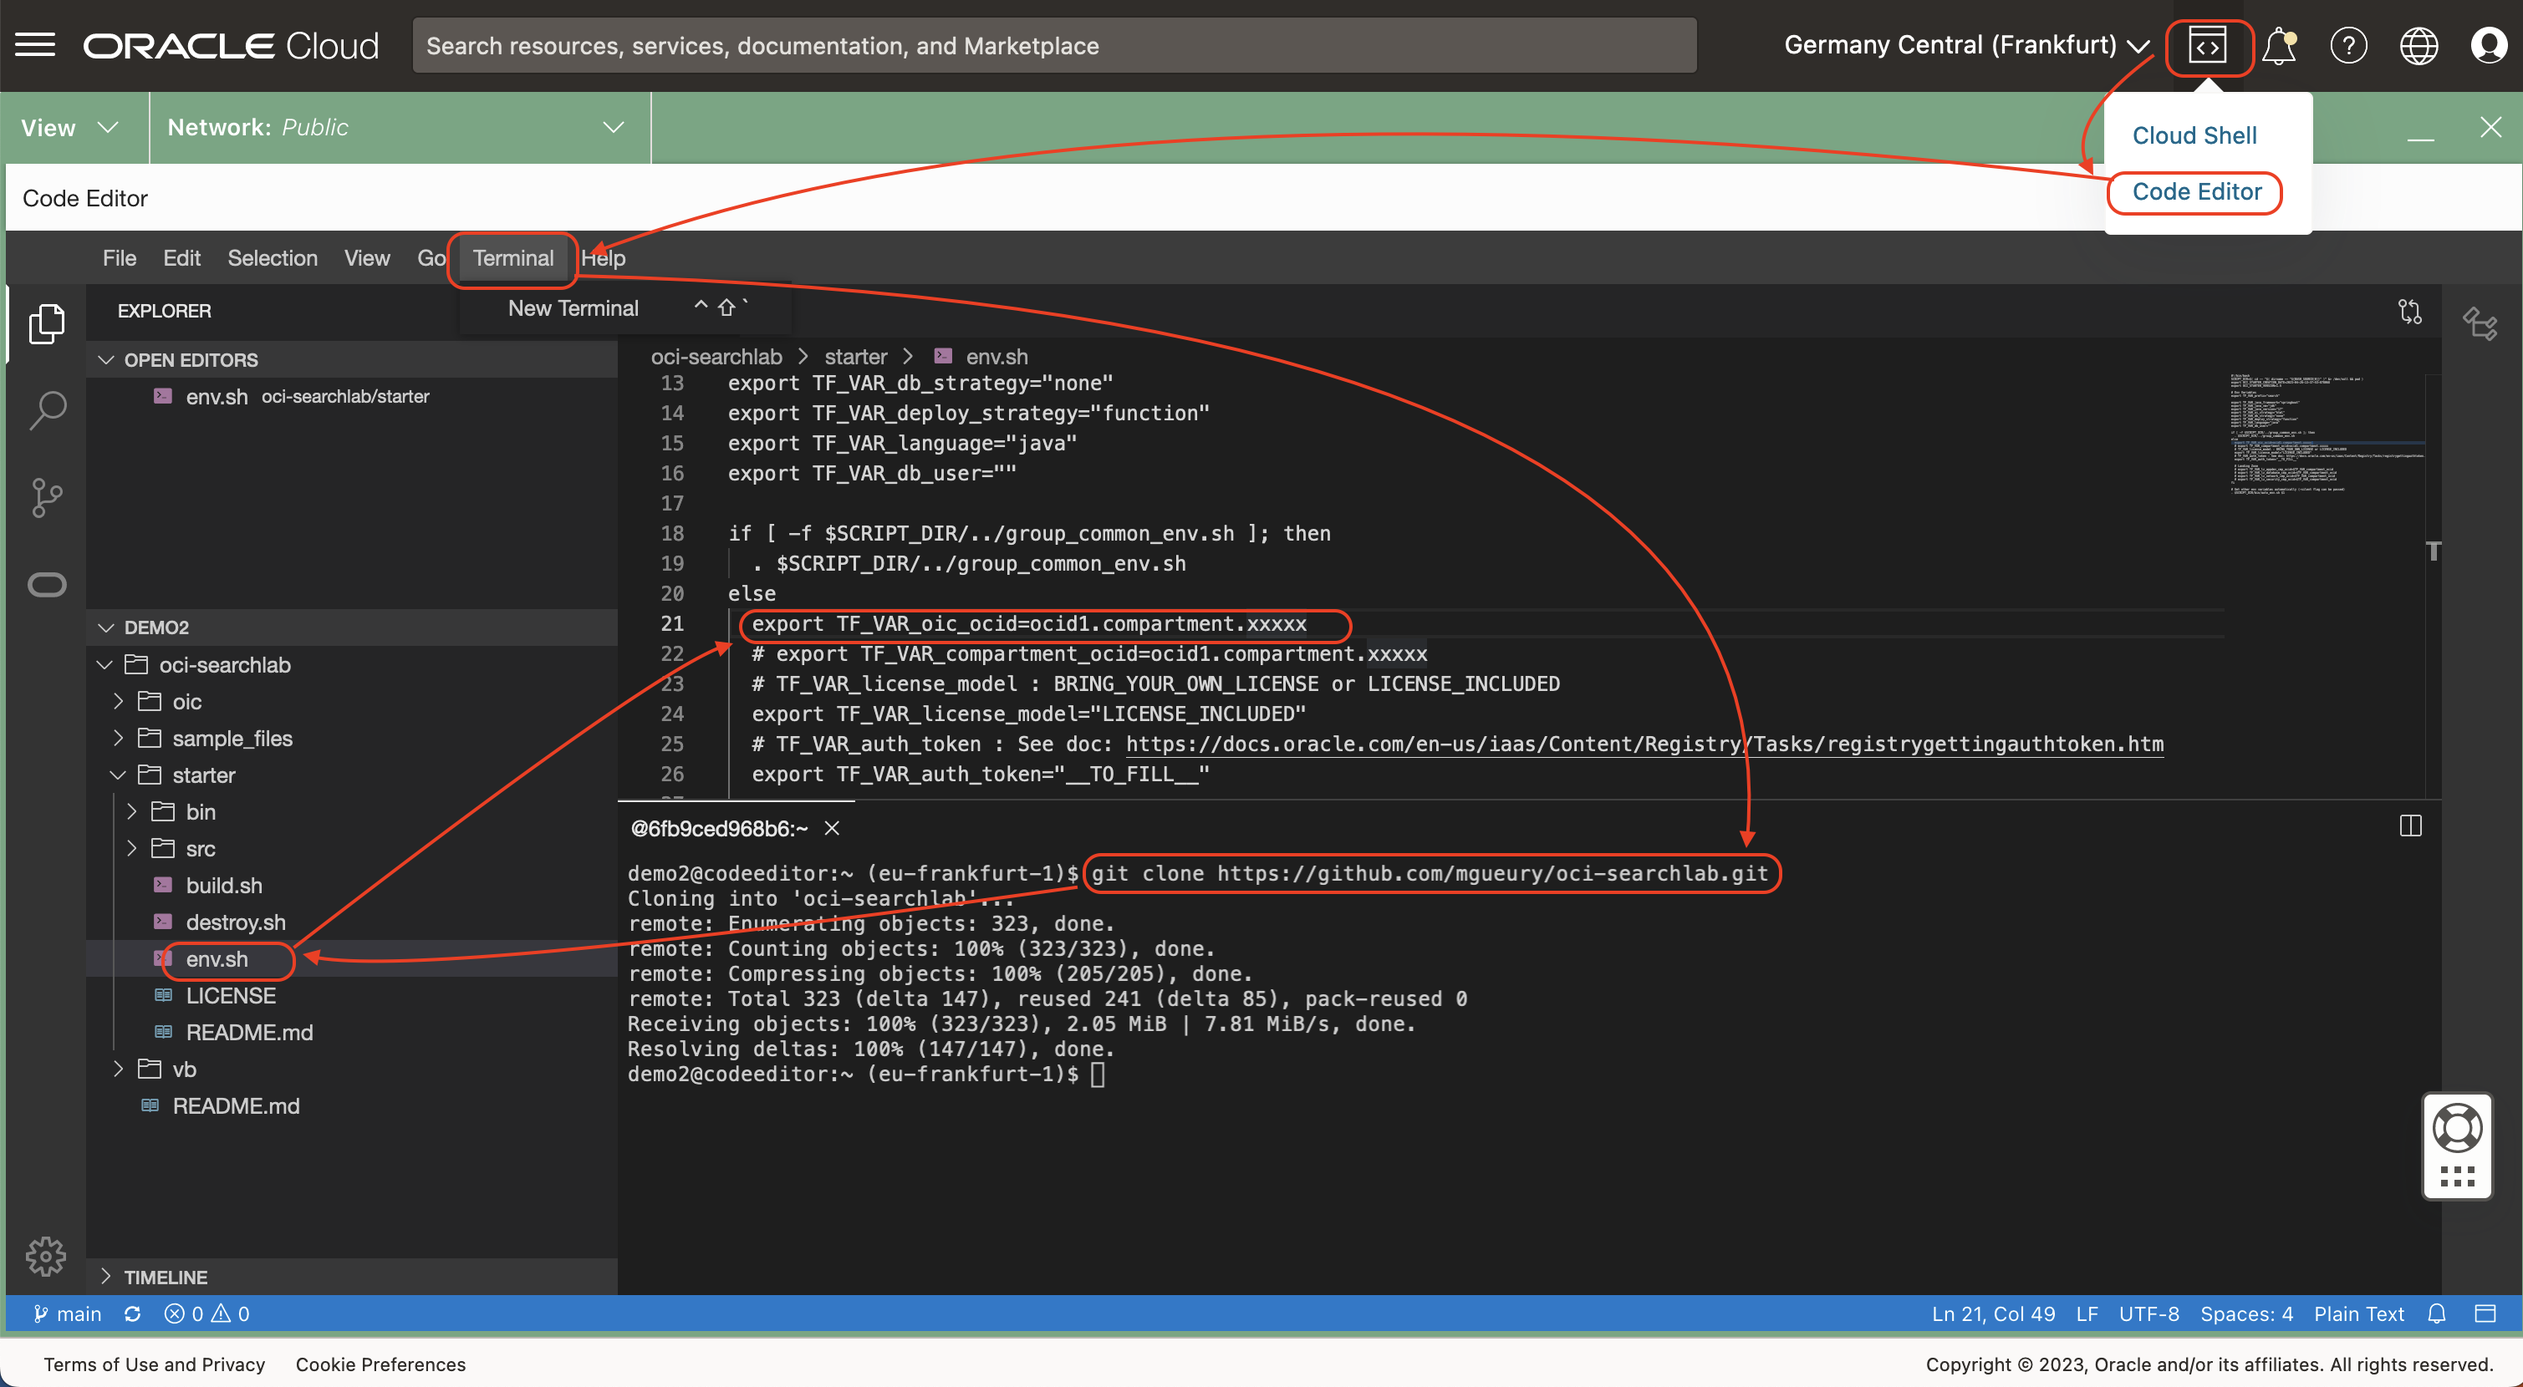
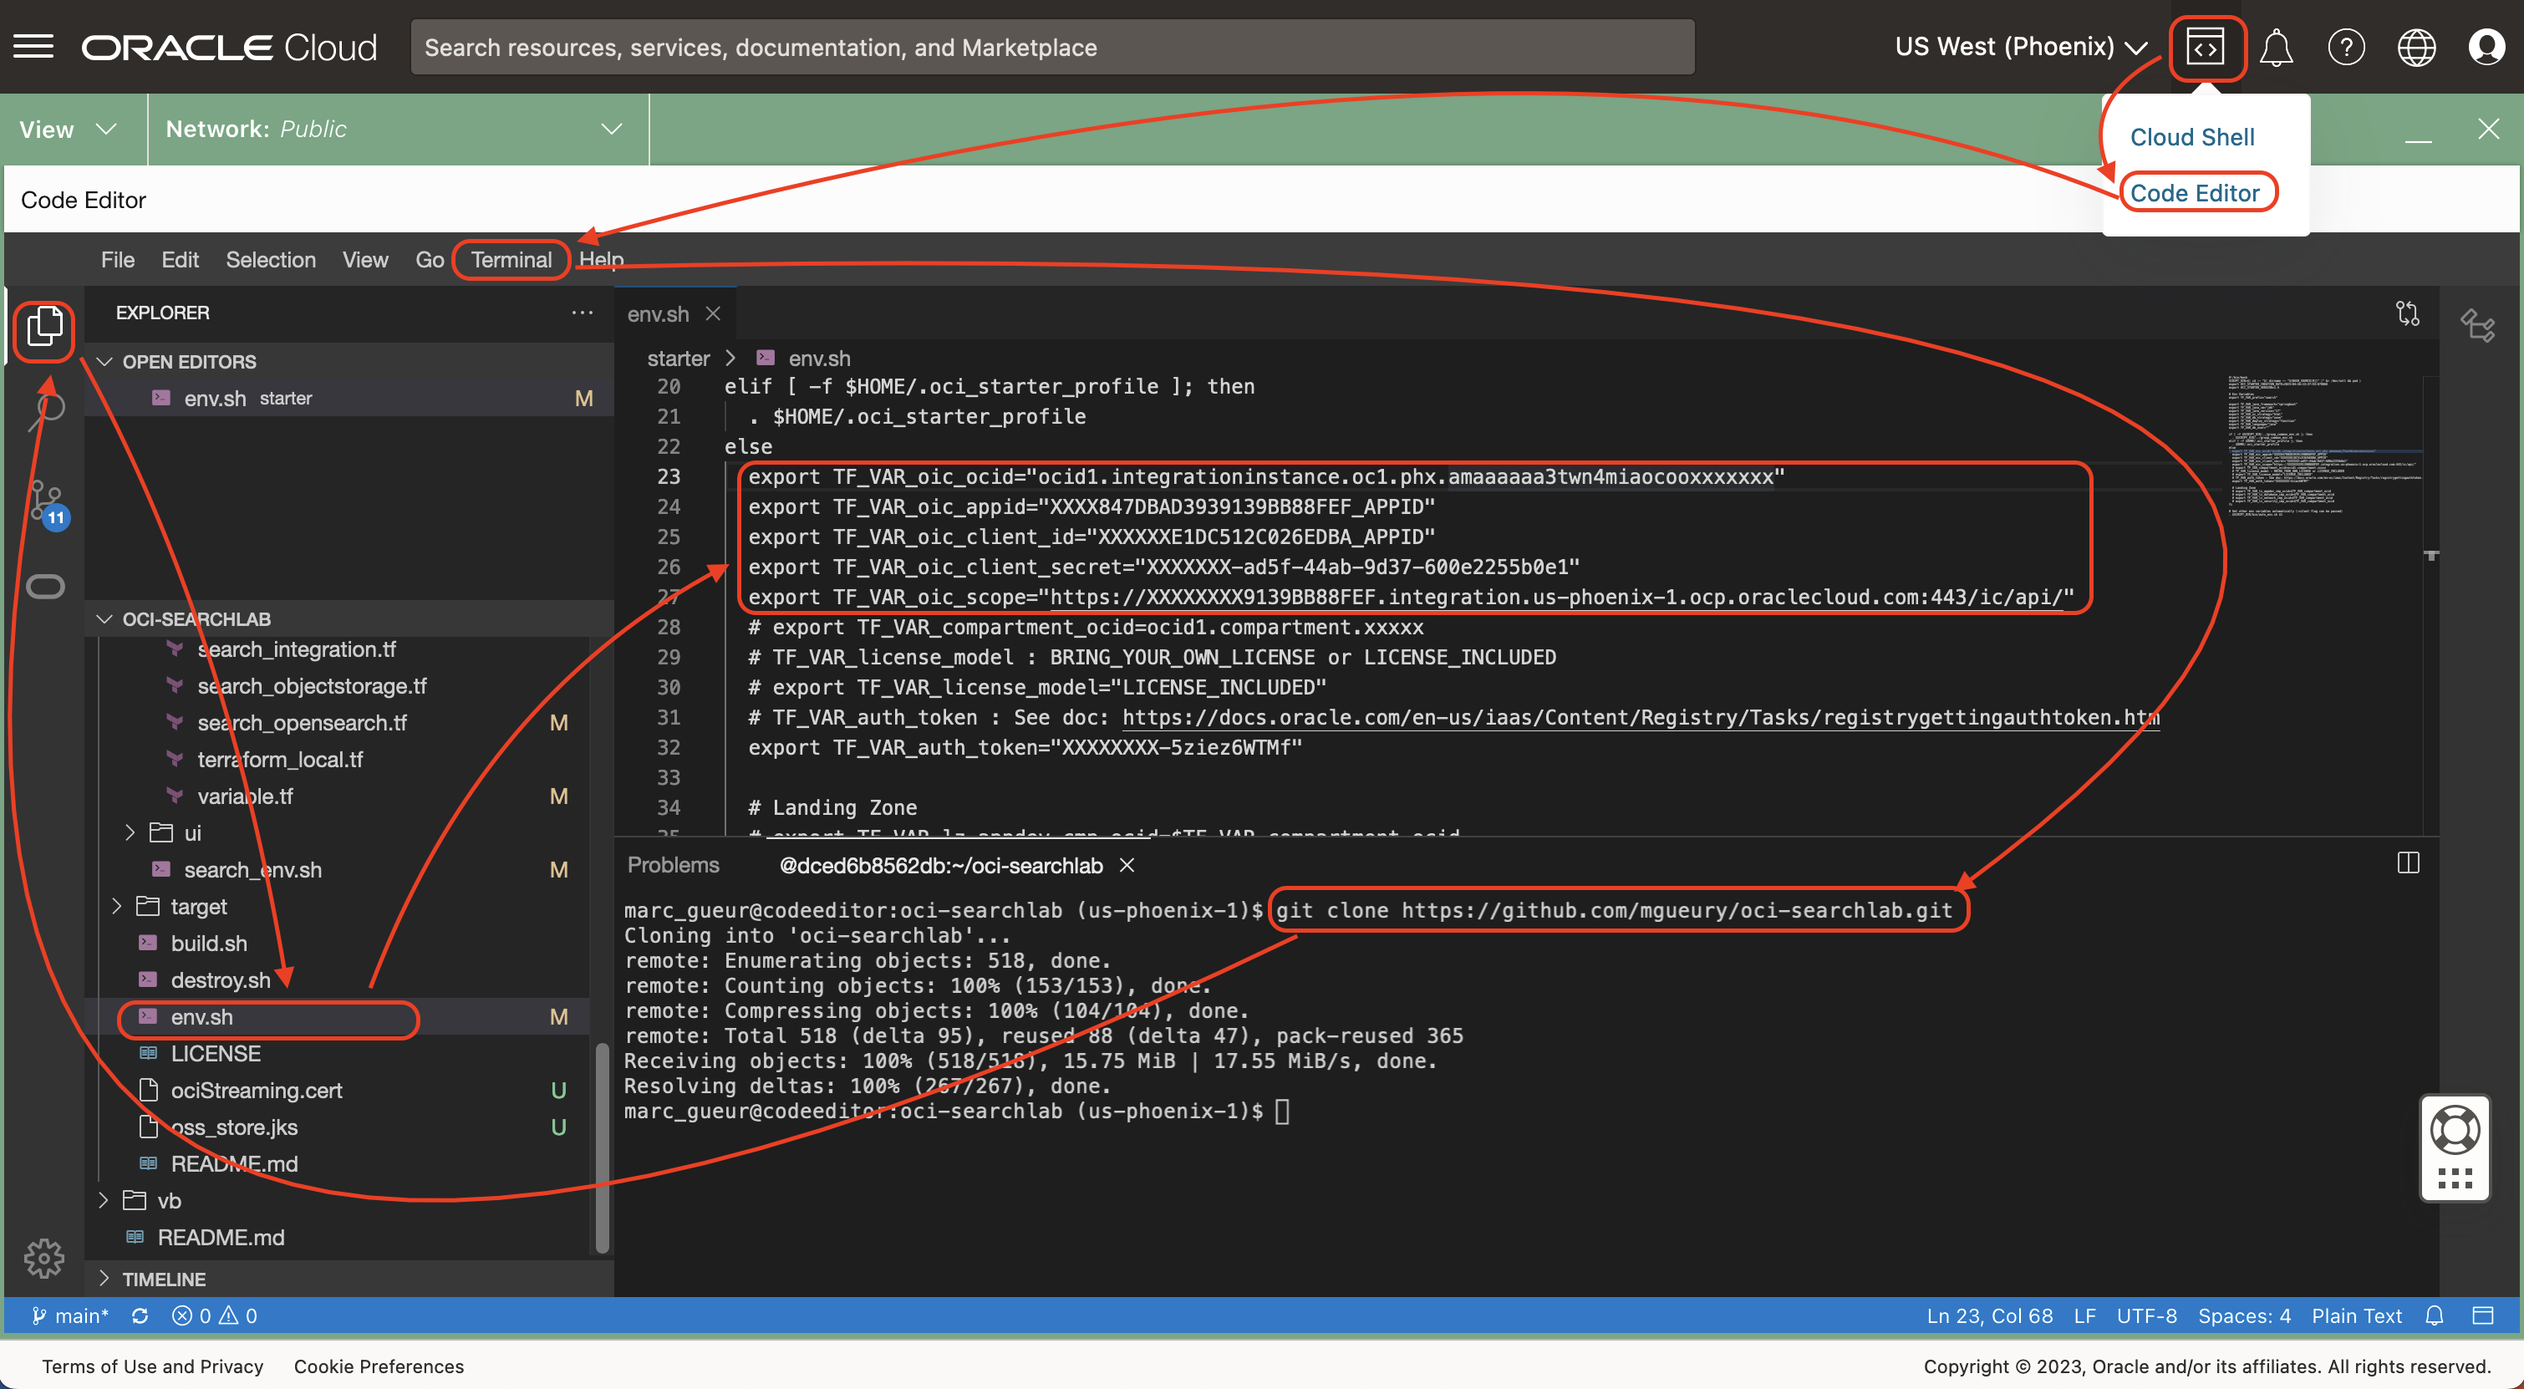
2023-06-28

diff --git a/oci-artificial-intelligence/documentunderstanding-opensearch/1-components/components.md b/oci-artificial-intelligence/documentunderstanding-opensearch/1-components/components.md
@@ -19,36 +19,28 @@ In this section, we will install all the components needed using the OCI Wizards
 <copy>
 List of ##VARIABLES##
 ---------------------
+COMPARTMENT_OCID=(SAMPLE) ocid1.compartment.oc1.amaaaaaaaa
+OIC_OCID=(SAMPLE) ocid1.integrationinstance.oc1.aaaaaaaaa
+OIC_APPID=(SAMPLE) 123456789012345678AABBCC_APPID
+OIC_CLIENT_ID=(SAMPLE) AABBCCDDEEFF1234567890_APPID
+OIC_CLIENT_SECRET=(SAMPLE) 123$45678$12234
+OIC_SCOPE=(SAMPLE) https://1234567890.integration.us-phoenix-1.ocp.oraclecloud.com:443/ic/api/
 
-User
-----
-COMPARTMENT_OCID = (SAMPLE) ocid1.compartment.oc1.amaaaaaaaa
-OIC_OCID = (SAMPLE) ocid1.integrationinstance.oc1.aaaaaaaaa
-OIC_CLIENT_ID = (SAMPLE) 668BEAAAA904B7EBBBBBBC5E33943B_APPID
-OIC_CLIENT_SECRET = (SAMPLE) 12345678$#12234
-OIC_SCOPE = (SAMPLE) https://1234567890.integration.us-phoenix-1.ocp.oraclecloud.com:443/ic/api/
+Terraform Output
+----------------
+-- STREAMING CONNECTION --------------------------
+STREAM_BOOSTRAPSERVER=(SAMPLE)cell-1.streaming.us-phoenix-1.oci.oraclecloud.com:9092
+STREAM_USERNAME=(SAMPLE)tenantname/username/ocid1.streampool.oc1.phx.amaaaaaa3twn4mia5hvcf4m3npe2l76fxfhffbrabcdefgh
+AUTH_TOKEN=(SAMPLE)abcdefgh$$123
 
-## NOT USED
-USER_OCID = (SAMPLE) ocid1.user.oc1..amaaaaaaaa
-AUTH_TOKEN = (SAMPLE)  X1232324_TGH
-OCI_PASSWORD = (SAMPLE) LiveLab--123
+-- FUNCTION CONNECTION ---------------------------
+FUNCTION_ENDPOINT=(SAMPLE)https://abcdefgh.us-phoenix-1.functions.oci.oraclecloud.com/20181201/functions/ocid1.fnfunc.oc1.phx.aaaaaaaacfum7wwrgt34y5pdnjum24kqxr6lkjdgabcdefgh
 
-Components
-----------
-STREAM_BOOSTRAPSERVER = (SAMPLE) cell-1.streaming.eu-frankfurt-1.oci.oraclecloud.com:9092
-STREAM_USERNAME = (SAMPLE) tenancy/oracleidentitycloudservice/name@domain.com/ocid1.streampool.oc1.eu-frankfurt-1.amaaaaaaaa
+-- OPENSEACH CONNECTION --------------------------
+OPENSEARCH_API_ENDPOINT=(SAMPLE)https://amaaaaaaabcdefgh.opensearch.us-phoenix-1.oci.oraclecloud.com:9200
 
-OPENSEARCH_API_ENDPOINT = (SAMPLE) https://amaaaaaaaa.opensearch.eu-frankfurt-1.oci.oraclecloud.com:9200
-OPENSEARCH_HOST = (SAMPLE) amaaaaaaaa.opensearch.eu-frankfurt-1.oci.oraclecloud.com
-OPENSEARCH_USER = opensearch-user
-OPENSEARCH_PWD = (SAMPLE) LiveLab--123
-
-OIC_HOST = (SAMPLE) opensearch-oic-namespace-fr.integration.ocp.oraclecloud.com
-
-COMPUTE_PUBLIC-IP = (SAMPLE) 123.123.123.123
-AI_VISION_URL = (SAMPLE) https://vision.aiservice.eu-frankfurt-1.oci.oraclecloud.com
-FUNCTION_ENDPOINT = (SAMPLE) https://amaaaaaaaa.eu-frankfurt-1.functions.oci.oraclecloud.com/20181201/functions/ocid1.fnfunc.oc1.eu-frankfurt-1.amaaaaaaaa
-APIGW_HOSTNAME = (SAMPLE) amaaaaaaaa.apigateway.eu-frankfurt-1.oci.customer-oci.com
+-- API GATEWAY CONNECTION ------------------------
+APIGW_URL=(SAMPLE)https://abcdefgh.apigateway.us-phoenix-1.oci.customer-oci.com
 </copy>
 `````
 
@@ -60,170 +52,154 @@ You can
 - Use an existing compartment to run the lab. 
 - Or create a new one.
 
-Go the menu
-- Identity & Security
-- Choose Compartment
-
-![Menu Compartment](images/opensearch-compartment1.png =40%x*)
-
-Go to the right place in the hierarchy
-- Click ***Create Compartment***
-- Give a name: ***oci-starter***
-- Then again: ***Create Compartment***
-
-![Create Compartment](images/opensearch-compartment2.png)
-
-After creating the compartment, copy the OCID in your text editor. ***##COMPARTMENT_OCID##***. We will need it later.
-
-![Details Compartment](images/opensearch-compartment3.png)
+1. Go the menu
+    - Identity & Security
+    - Choose Compartment
+    ![Menu Compartment](images/opensearch-compartment1.png =40%x*)
+2. Click ***Create Compartment***
+    - Give a name: ***oci-starter***
+    - Then again: ***Create Compartment***
+    ![Create Compartment](images/opensearch-compartment2.png)
+3. After creating the compartment, copy the OCID in your text editor. ***##COMPARTMENT_OCID##***. We will need it later.
+    ![Details Compartment](images/opensearch-compartment3.png)
 
 ## Task 2: Create an Oracle Integration instance
 
 Oracle Integration will allow to glue all of this together.
 
-Go the menu
-- Developer Services
-- Application Integration
+1. Go the menu
+    - Developer Services
+    - Application Integration
+    ![Menu Integration](images/opensearch-oic1.png =50%x*)
+2. Check that you are in the right compartment (*oci-starter* in this case)
+3. Click *Create*
+    - Name: *oic*
+    - Version: *OIC Integration 3*
+    - Edition: *Standard*
+    - Shape: *Development*
+    - Choose the licence type 
+    - Click *Create*
+        ![Create Integration](images/opensearch-oic2.png)
+4. Wait 3 mins that OIC is created and Green. 
+5. When it is created, 
+    - Click **Service Console**. It will open a new tab that you will use in Task 3.
+    - Copy the OCID of the OIC instance in your text editor. ***##OIC_OCID##***. We will need it later.
+    - When done, Enable Visual Builder
+    ![Visual Builder Enable Integration](images/opensearch-oic3.png)
 
-![Menu Integration](images/opensearch-oic1.png =50%x*)
-
-- Check that you are in the right compartment (*oci-starter* in this case)
-- Click *Create*
-- Name: *oic*
-- Version: *OIC Integration 3*
-- Edition: *Standard*
-- Shape: *Development*
-- Choose the licence type 
-- Click *Create*
-
-![Create Integration](images/opensearch-oic2.png)
-
-Wait 3 mins that OIC is created and Green. 
-When it is created, 
-- Click **Service Console**. It will open a new tab that you will use in Task 3.
-- Copy the OCID of the OIC instance in your text editor. ***##OIC_OCID##***. We will need it later.
-- Enable Visual Builder
-
-You do not have to wait that it is done before to go to the next step.
-
-![Visual Builder Enable Integration](images/opensearch-oic3.png)
+You do not have to wait that Visual Builder is installed before to go to the next step.
 
 ## Task 3: Create an Agent Group
 
 To communicate with OpenSearch in the private network, we have to install the OIC agent on the compute.
 
 First, 
-- Go to the OIC console that you opened just above
-
-Create the Agent Group
-- On the left menu, choose *Design*
-- Then *Agent* 
-- Click *Create*
-- Name: *OPENSEARCH\_AGENT\_GROUP* 
-- Identifier: *OPENSEARCH\_AGENT\_GROUP*
-- Then *Create*
-
-![Create Agent Group](images/opensearch-oic3-agent-group.png)
+1. Go to the OIC console that you opened just above
+2. Create the Agent Group
+    - On the left menu, choose *Design*
+    - Then *Agent* 
+    - Click *Create*
+    - Name: *OPENSEARCH\_AGENT\_GROUP* 
+    - Identifier: *OPENSEARCH\_AGENT\_GROUP*
+    - Then *Create*
+    ![Create Agent Group](images/opensearch-oic3-agent-group.png)
 
 ## Task 4: Get the OIC AppID (ClientID)
 
-Go the menu
-- Identity & Security
-- Domains
+To enable Resource Principal, we need the OIC APPID.
 
-![Menu Domain](images/opensearch-oic-domain.png)
-
-- Choose *Default (current domain)*
-- On the left, choose *Oracle Cloud Services*
-
-![OIC Domain](images/opensearch-oic_service.png)
-
-- Scroll down until that you see a name like  
-    oic-xxx-xxxx  - Integration Service
-- Click on it
-- In the Service details look for *Client ID*
-- Copy the value in your notes *##OIC\_CLIENT\_ID##*. It will be of the something like 668BEAAAA904B7EBBBBBBC5E33943B\_APPID
-- Click *Show Secret* Copy the value in your notes *##OIC\_APPID##*.
-
-![OIC Domain](images/opensearch-oic_appid.png)
+1. Go the menu
+    - Identity & Security 
+    - Domains
+    ![Menu Domain](images/opensearch-oic-domain.png)
+2. Choose *Default (current domain)*
+3. On the left, choose *Oracle Cloud Services*
+    ![OIC Domain](images/opensearch-oic_service.png)
+4. Scroll down until that you see a name like *oic-xxx-xxxx  - Integration Service*
+    - Click on it
+5. In the Service details look for *Client ID*
+    - Copy the value in your notes *##OIC\_APPID##*. It will be of the something like 668BEAAAA904B7EBBBBBBC5E33943B\_APPID
+    ![OIC Domain](images/opensearch-oic_appid.png)
 
 ## Task 5: Get the OIC Client ID/Secret
 
-Again, go the menu
-- Identity & Security
-- Domains
+Let's redo nearly the same to get Client ID/Secret for OIC
 
-![Menu Domain](images/opensearch-oic-domain.png)
-
-- Choose *Default (current domain)*
-- On the left, choose *Oracle Cloud Services*
-
-![OIC Domain](images/opensearch-oic_service.png)
-
-- Scroll down until that you see a name like (this time)
-    opensearch_agent_group-oic-xxx-xxxx  - Connectivity Agent OAuth Client
-- Click on it
-- In the Service details look for *Client ID*
-- Copy the value in your notes *##OIC\_CLIENT\_ID##*. It will be of the something like 668BEAAAA904B7EBBBBBBC5E33943B\_APPID
-- Click *Show Secret* Copy the value in your notes *##OIC\_CLIENT\_SECRET##*.
-
-![OIC Domain](images/opensearch-confapp1.png)
-
-- Scroll further in the page.
-- Copy the scope finishing with /ic/api in your notes *##OIC\_SCOPE##*. It will be of the something like https://12345678.integration.us-phoenix-1.ocp.oraclecloud.com:443/ic/api/
-
-![OIC Domain](images/opensearch-confapp2.png)
+1. Again, Go the menu
+    - Identity & Security 
+    - Domains
+2. Choose *Default (current domain)*
+3. On the left, choose *Oracle Cloud Services*
+4. Scroll down until that you see a name like *opensearch\_agent\_group-oic-xxx-xxxx  - Connectivity Agent OAuth Client*
+    - Click on it
+5. In the Service details look for *Client ID*
+    - Copy the value in your notes *##OIC\_CLIENT\_ID##*. It will be of the something like 668BEAAAA904B7EBBBBBBC5E33943B\_APPID
+    - Click *Show Secret* Copy the value in your notes *##OIC\_CLIENT\_SECRET##*.
+    ![OIC Domain](images/opensearch-confapp1.png)
+6. Scroll further in the page.
+    - Copy the scope finishing with /ic/api in your notes *##OIC\_SCOPE##*. It will be of the something like https://12345678.integration.us-phoenix-1.ocp.oraclecloud.com:443/ic/api/
+    ![OIC Domain](images/opensearch-confapp2.png)
 
 ## Task 6: Run Terraform to create the other components.
 
 In OCI,
+1. Go to OCI homepage
+2. Click Code Editor
+    - Click Terminal/New Terminal
+    - Run the command below in the terminal
+    ![Menu Compute](images/opensearch-terraform1.png =50%x*)
 
-- Login to your OCI account
-- Click Code Editor
-- Click New Terminal
-- Copy paste the command below. 
+    ````
+    <copy>
+    git clone https://github.com/mgueury/oci-searchlab.git
+    </copy>
+    ````
+3. Edit the file oci-searchlab/starter/env.sh
+    - Replace the value with your ##OIC\_OCID##, ##OIC_APPID##, ##OIC\_CLIENT\_ID##, ##OIC\_CLIENT\_SECRET##, ##OIC\_SCOPE##
+    ````
+    <copy>
+    export TF_VAR_oic_ocid="##OIC_OCID##"
+    export TF_VAR_oic_appid="##OIC_APPID##"
+    export TF_VAR_oic_client_id="##OIC_CLIENT_ID##"
+    export TF_VAR_oic_client_secret="##OIC_CLIENT_SECRET##"
+    export TF_VAR_oic_scope="##OIC_SCOPE##"
+    </copy>
+    ````
+4. Run 2 commands below. It will run Terraform to create the rest of the components.
+    ````
+    <copy>
+    cd oci-searchlab/starter/
+    bin/gen_auth_token.sh
+    ./build.sh
+    </copy>
+    ````
+5. You can already run the Lab 3, Task 1 and 2. Do not wait that Terraform is finished. 
 
-![Menu Compute](images/opensearch-terraform1.png =50%x*)
+6. When Terraform will finished, you will settings that you need in later labs. Something like:
 
-````
-<copy>
-git clone https://github.com/mgueury/oci-searchlab.git
-</copy>
-````
-- Edit the file oci-searchlab/starter/env.sh
-- Replace the value with your ##OIC\_OCID##, ##OIC\_CLIENT\_ID##, ##OIC\_CLIENT\_SECRET##, ##OIC\_SCOPE##
-- Replace the value with the password of the OCI account. It will be used to download 
+    ```
+    --------------------------
+    OCI SEARCH LAB Environment
+    --------------------------
 
-````
-<copy>
-export TF_VAR_oic_ocid="##OIC_OCID##"
-export TF_VAR_oic_client_id="##OIC_CLIENT_ID##"
-export TF_VAR_oic_client_secret="##OIC_CLIENT_SECRET##"
-export TF_VAR_oic_scope="##OIC_SCOPE##"
-</copy>
-````
+    -- STREAMING CONNECTION --------------------------
+    STREAM_BOOSTRAPSERVER=cell-1.streaming.us-phoenix-1.oci.oraclecloud.com:9092
+    STREAM_USERNAME=tenantname/username/ocid1.streampool.oc1.phx.amaaaaaa3twn4mia5hvcf4m3npe2l76fxfhffbrabcdefgh
+    AUTH_TOKEN=abcdefgh$$123
 
-- Run 2 commands below. It will run Terraform to create the rest of the components.
+    -- FUNCTION CONNECTION ---------------------------
+    FUNCTION_ENDPOINT=https://abcdefgh.us-phoenix-1.functions.oci.oraclecloud.com/20181201/functions/ocid1.fnfunc.oc1.phx.aaaaaaaacfum7wwrgt34y5pdnjum24kqxr6lkjdgabcdefgh
 
-````
-<copy>
-cd oci-searchlab/starter/
-bin/gen_auth_token.sh
-./build.sh
-</copy>
-````
+    -- OPENSEACH CONNECTION --------------------------
+    OPENSEARCH_API_ENDPOINT=https://amaaaaaaabcdefgh.opensearch.us-phoenix-1.oci.oraclecloud.com:9200
 
-- You can already run the Lab 3, Task 1 and 2. When it is finished. 
-  You will see:
+    -- API GATEWAY CONNECTION ------------------------
+    APIGW_URL=https://abcdefgh.apigateway.us-phoenix-1.oci.customer-oci.com
 
-```
+    Done.
+    ```
 
-
-
-```
-
-
-## Known issue
+## Known issues
 
 During the terraform run, there is a error:
 
@@ -246,7 +222,6 @@ Then rerun
 ./build.sh
 ```
 
-
 ## Acknowledgements
 
 - **Author**
@@ -254,3 +229,4 @@ Then rerun
     - Badr Aissaoui
     - Marek Krátký 
 - **History** - Creation - 24 May 2023
+              - V2 - 28 June 2023
